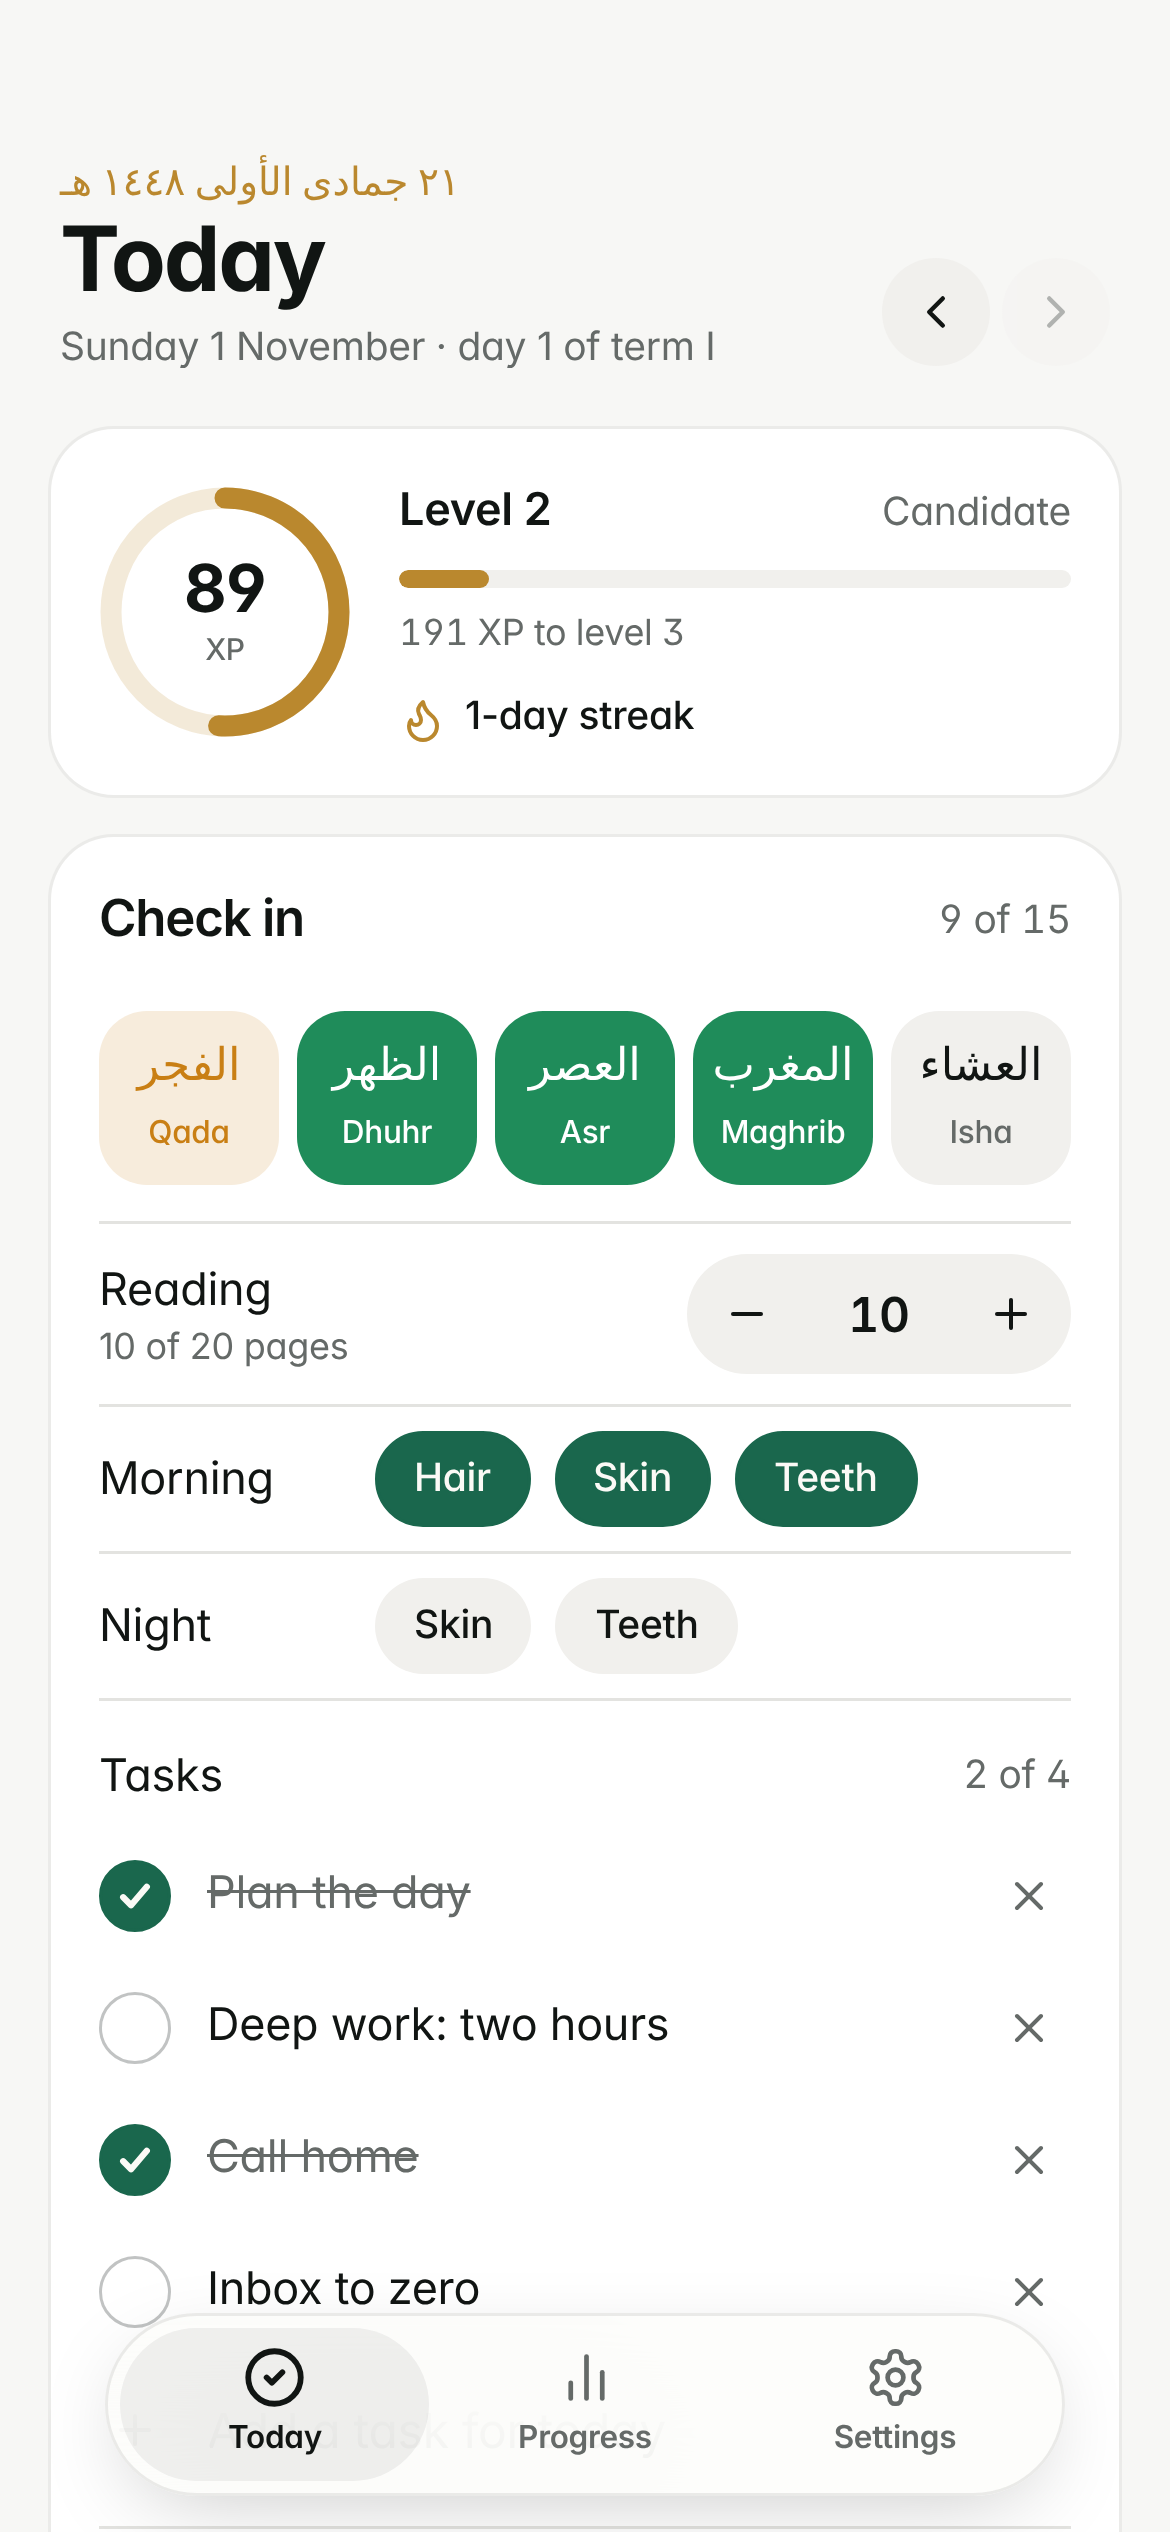
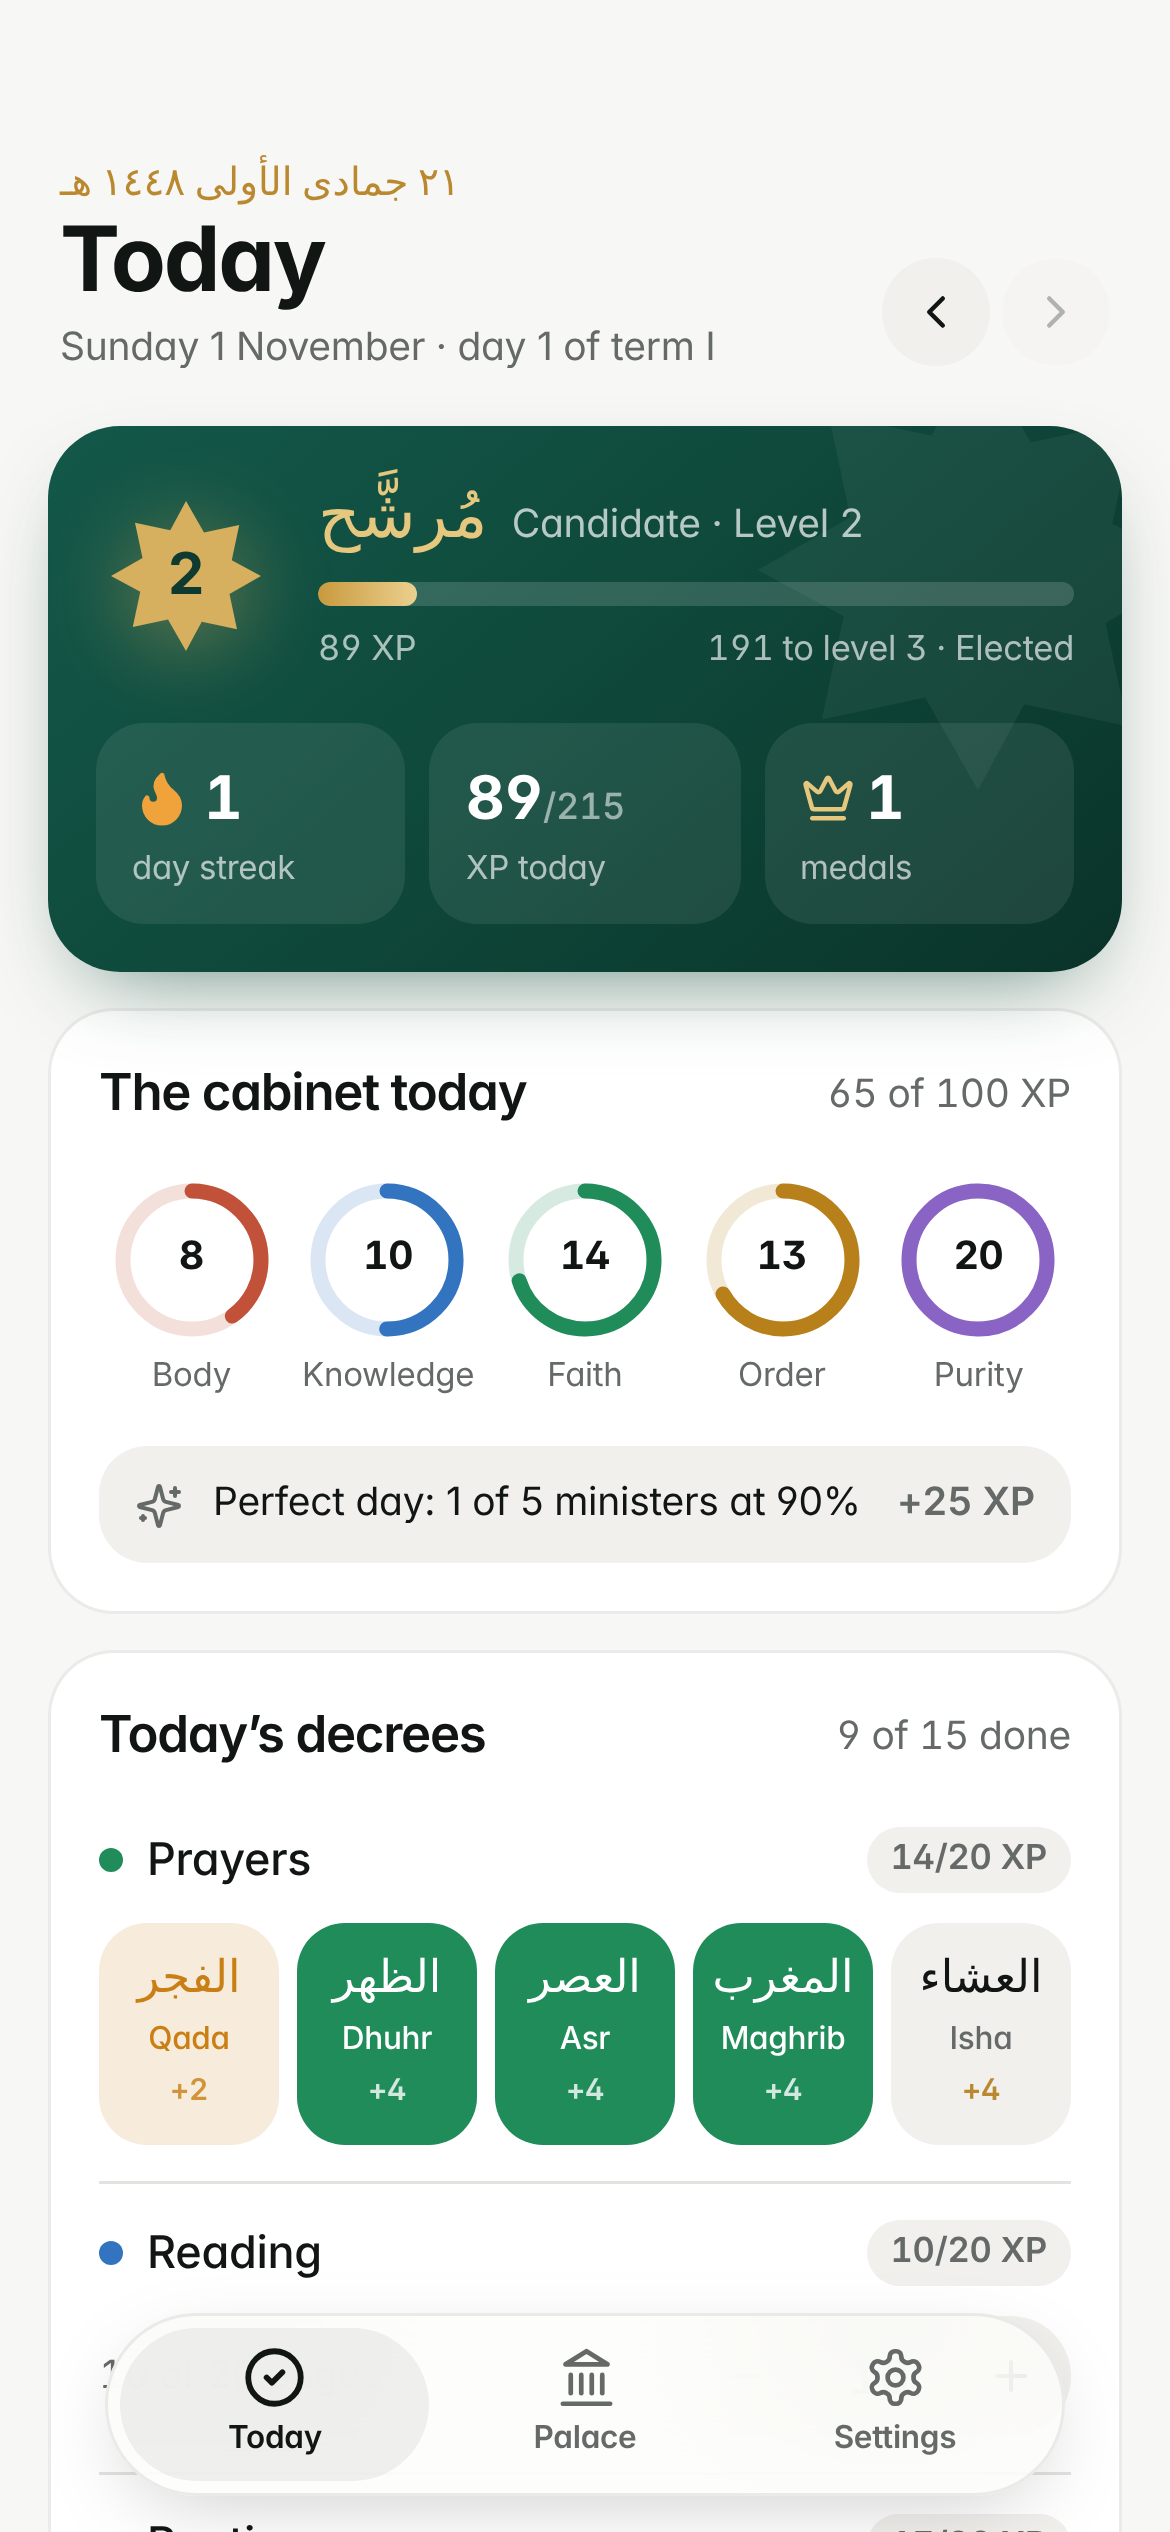
Install screenshots for Today and the Palace; neutral purity streak label
Claude-Session: https://claude.ai/code/session_01VFWUhH7GUfZHNsK9fRP7Q3

diff --git a/src/screens/Palace.jsx b/src/screens/Palace.jsx
@@ -95,7 +95,7 @@ function Ladder() {
 
 /* ---------- streaks ---------- */
 const STREAKS = [["office", "Days in office", "Log something every day"], ["prayers", "All five prayers", "Every prayer, every day"], ["fajr", "Up for Fajr", "Awake around Fajr, from WHOOP"],
-  ["abstain", "Purity", "No porn, no masturbation"], ["read", "Reading", "Your pages, every day"], ["regular", "Sleep rhythm", "Consistency on target"], ["vital", "Vitality", "4 of 5 vitals"]];
+  ["abstain", "Purity", "Clean, no slip logged"], ["read", "Reading", "Your pages, every day"], ["regular", "Sleep rhythm", "Consistency on target"], ["vital", "Vitality", "4 of 5 vitals"]];
 function Streaks() {
   return (
     <Section title="Streaks" right={<span className="text-[13px] text-muted-foreground">now · best</span>}>
